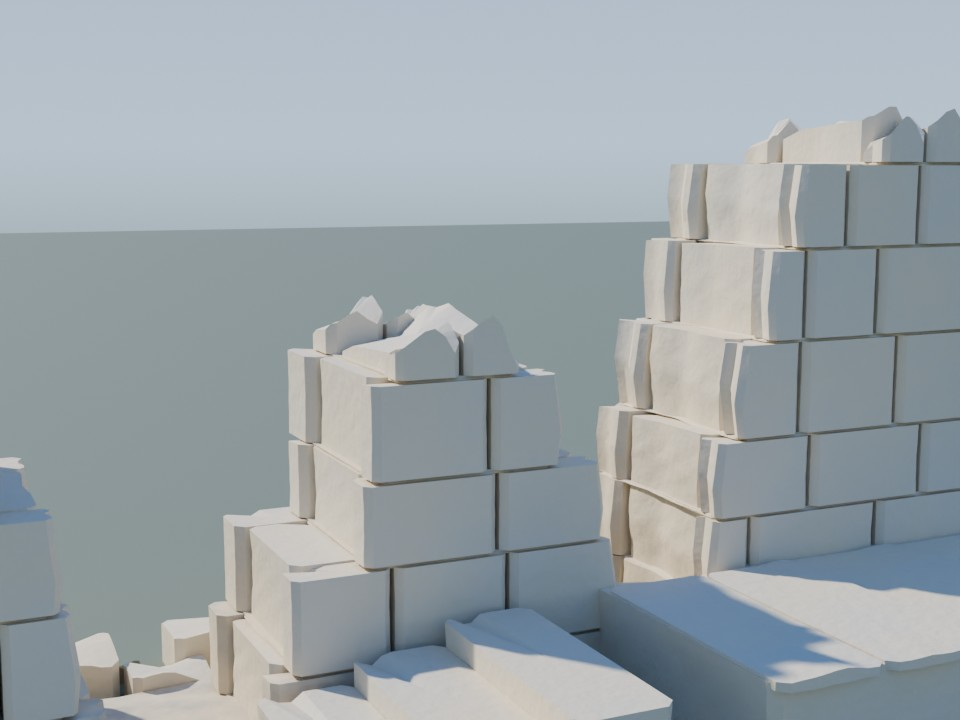
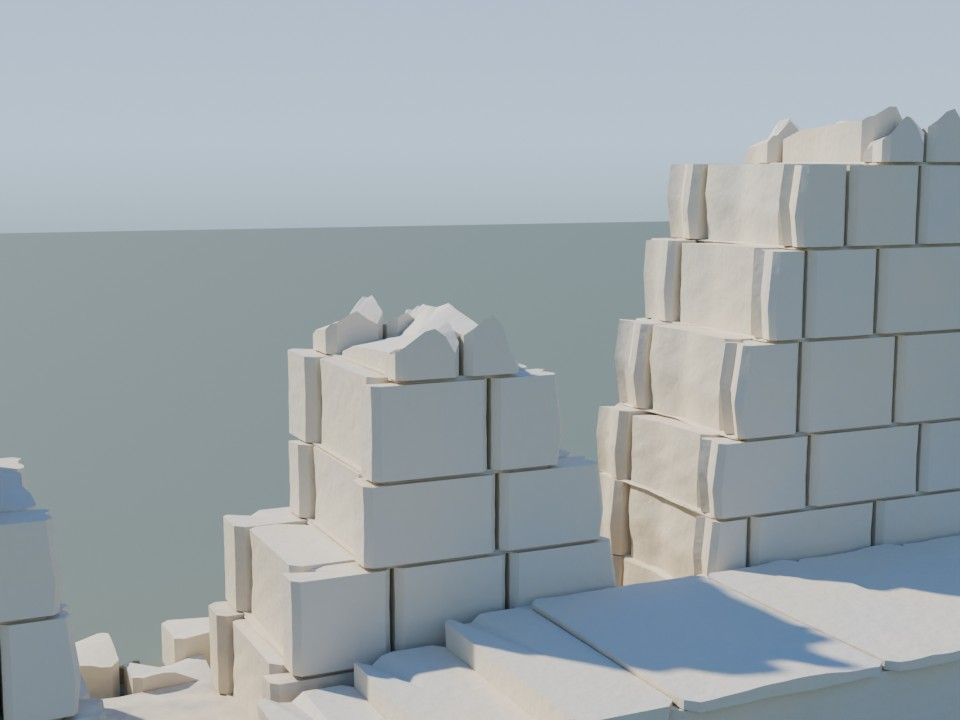
Connect the ruin stair to its upper terrace

Changed region(s): [[0.5625, 0.7944, 0.9062, 1.0]]

diff --git a/assets/monuments/ruin_wall_a/build.py b/assets/monuments/ruin_wall_a/build.py
@@ -184,11 +184,13 @@ def build():
         (3.04,3.74,(3.84,4.32,4.92),None),
         (3.74,4.62,(4.18,4.91),.87)],-1)
     ashlar("Solid lower terrace bed",(-4.94,4.94,-.09,2.36,-.14,.30),rng,old)
-    for i in range(5):
-        x0=2.77-i*.72
-        ashlar(f"Rear terrace tread {i+1}",(x0,x0+.72,.16,2.27,.285,.50+i*.19),rng,white)
-    ashlar("Solid upper terrace bed",(-4.97,-.82,-.09,2.30,.24,1.27),rng,white)
-    for i,(a,b) in enumerate(zip((-4.97,-3.79,-2.65,-1.73),(-3.79,-2.65,-1.73,-.82))):
+    tread_depth,tread_count=.72,5
+    terrace_edge=2.77-(tread_count-1)*tread_depth
+    for i in range(tread_count):
+        x0=2.77-i*tread_depth
+        ashlar(f"Rear terrace tread {i+1}",(x0,x0+tread_depth,.16,2.27,.285,.50+i*.19),rng,white)
+    ashlar("Solid upper terrace bed",(-4.97,terrace_edge+.045,-.09,2.30,.24,1.22),rng,white)
+    for i,(a,b) in enumerate(zip((-4.97,-3.79,-2.65,-1.73),(-3.79,-2.65,-1.73,terrace_edge))):
         ashlar(f"Upper terrace paving {i+1}",(a+.012,b-.01,.12,2.38,1.23,1.36),rng,white,.12)
 
     for i,(x,y,length,depth,height) in enumerate((
